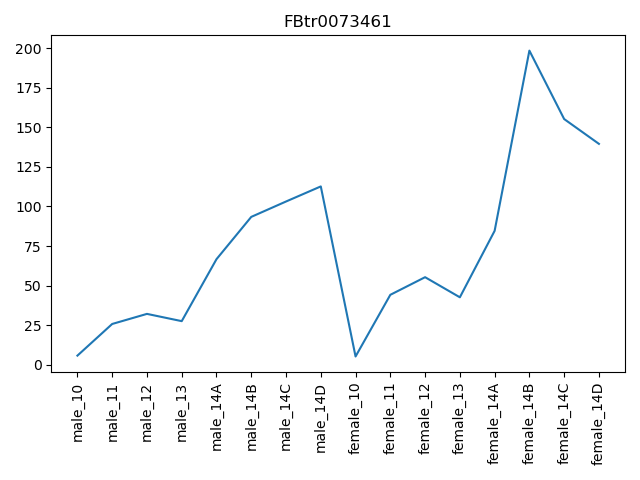
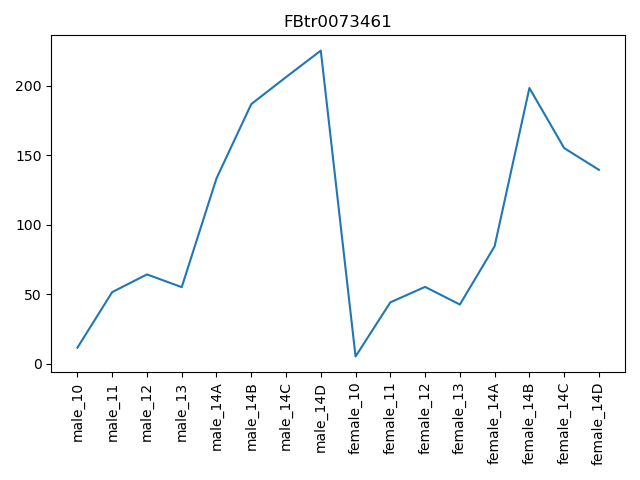
Add 2* male data

diff --git a/day2-homework/plot-sisA.py b/day2-homework/plot-sisA.py
@@ -30,6 +30,10 @@ for i in range(len(transcripts)):
 # Subset data of interest
 expression = data[row, ]
 
+for i in range(len(expression)):
+    if samples[i].startswith("male"):
+        expression[i] = expression[i] * 2
+
 # Prepare data
 x = samples
 y = expression
